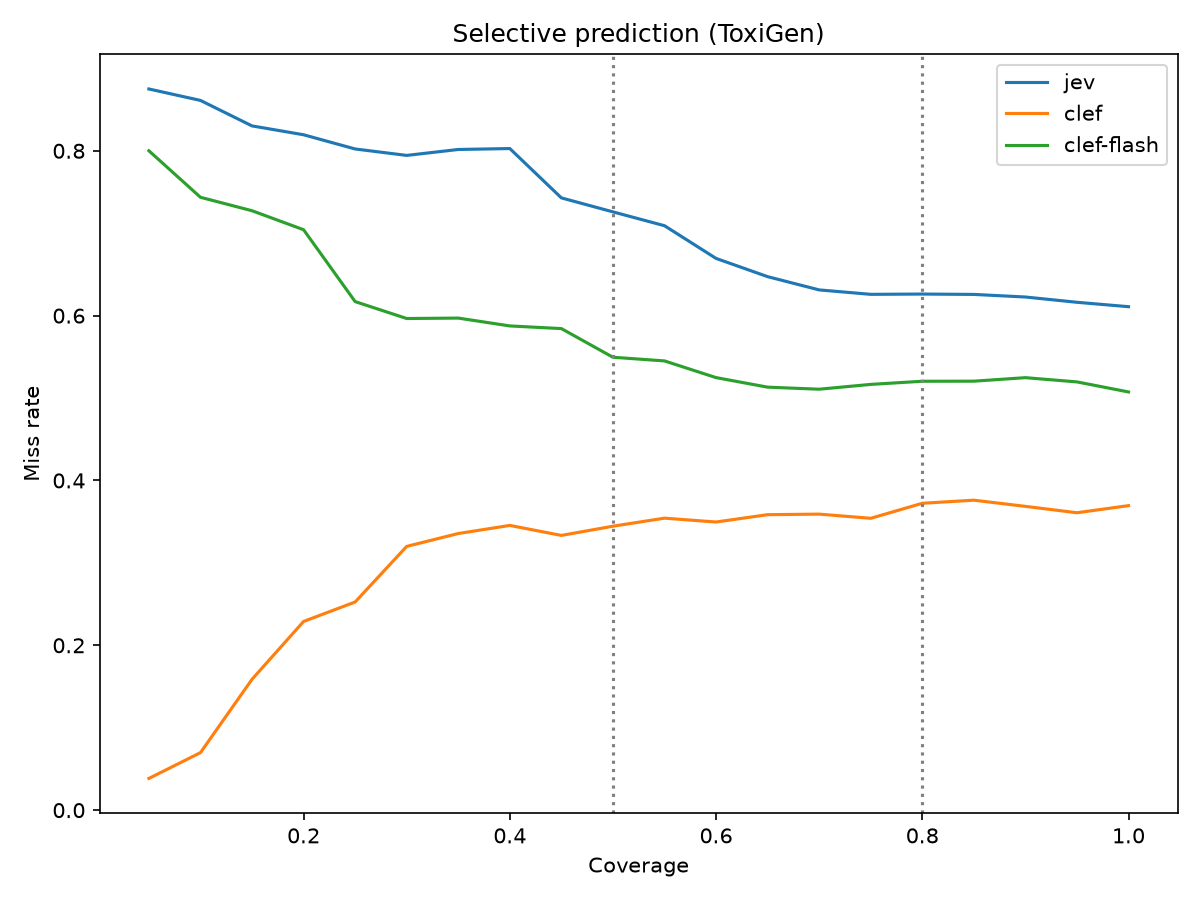
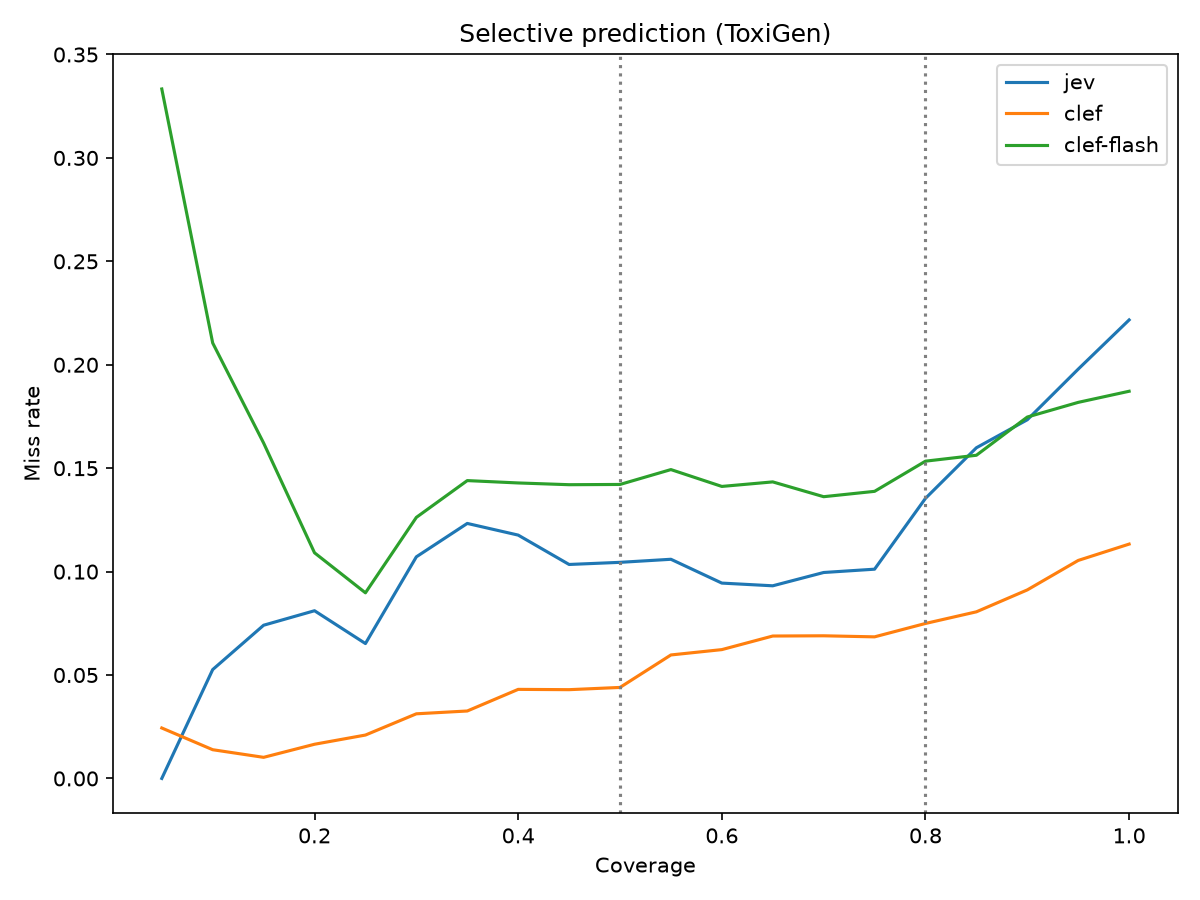
Fix run_metrics prediction alignment with gold records
run_metrics sorted predictions by example_id while core records stay in
loader order, so zipped pairs were misaligned and harness metrics at 0.5
were wrong. Align predictions to rows like run_score harness evaluation
and replace the Core pack table when regenerating metrics.

diff --git a/experiments/safety_decision_models_2026_10_19/scripts/run_metrics.py b/experiments/safety_decision_models_2026_10_19/scripts/run_metrics.py
@@ -105,7 +105,9 @@ def main() -> None:
     for arm in (*MODEL_ARMS, GUARDRAIL_ARM):
         preds_by_arm[arm] = {}
         for dataset in DATASET_ORDER:
-            preds_by_arm[arm][dataset] = load_predictions(arm, dataset)
+            preds_by_arm[arm][dataset] = align_predictions(
+                records_by_dataset[dataset], load_predictions(arm, dataset)
+            )
 
     study = json.loads(STUDY_CONFIG.read_text(encoding="utf-8"))
     metrics: dict[str, Any] = {
@@ -246,8 +248,23 @@ def load_predictions(arm: str, dataset: str) -> list[PredictionRecord]:
         if row.get("probability") is not None and isinstance(row["probability"], float) and math.isnan(row["probability"]):
             row["probability"] = None
         preds.append(PredictionRecord.model_validate(row))
-    preds.sort(key=lambda p: p.example_id)
     return preds
+
+
+def align_predictions(
+    rows: list[ExampleRecord], preds: list[PredictionRecord]
+) -> list[PredictionRecord]:
+    """Match harness scoring: one prediction per row in record loader order."""
+    by_id = {pred.example_id: pred for pred in preds}
+    missing = [row.example_id for row in rows if row.example_id not in by_id]
+    if missing:
+        raise ValueError(
+            f"missing predictions for {len(missing)} rows (first: {missing[0]})"
+        )
+    extra = len(preds) - len(by_id)
+    if extra:
+        raise ValueError(f"duplicate example_id in predictions ({extra} duplicates)")
+    return [by_id[row.example_id] for row in rows]
 
 
 def go_emotions_primary_metrics(
@@ -1217,7 +1234,7 @@ def append_results(metrics: dict[str, Any]) -> None:
     results_path = EXPERIMENT_ROOT / "RESULTS.md"
     text = results_path.read_text(encoding="utf-8")
     if "## Core pack" in text:
-        return
+        text = text[: text.index("## Core pack")].rstrip() + "\n"
     lines = [
         "",
         "## Core pack",

diff --git a/experiments/safety_decision_models_2026_10_19/RESULTS.md b/experiments/safety_decision_models_2026_10_19/RESULTS.md
@@ -25,59 +25,59 @@ Run `run_id=20261020T040920Z_90c5fd13` (step 7 metrics). Threshold 0.5 and devel
 
 | Dataset | Arm | Metric | Tuned | At 0.5 |
 | --- | --- | --- | ---: | ---: |
-| toxigen | jev | accuracy | 0.5394 | 0.5394 |
-| toxigen | clef | accuracy | 0.5000 | 0.5000 |
-| toxigen | clef-flash | accuracy | 0.5309 | 0.5309 |
-| toxigen | guardrails | miss_rate | 0.9026 | — |
-| openai_moderation | jev | mean_auprc | 0.0589 | 0.0573 |
-| openai_moderation | clef | mean_auprc | 0.0563 | 0.0560 |
-| openai_moderation | clef-flash | mean_auprc | 0.0602 | 0.0574 |
-| openai_moderation | guardrails | miss_rate | 0.8602 | — |
-| toxicchat | jev | toxic_f1 | 0.0872 | 0.0872 |
-| toxicchat | jev | jailbreak_f1 | 0.0000 | 0.0000 |
-| toxicchat | clef | toxic_f1 | 0.1230 | 0.1230 |
-| toxicchat | clef | jailbreak_f1 | 0.0143 | 0.0143 |
-| toxicchat | clef-flash | toxic_f1 | 0.1398 | 0.1398 |
-| toxicchat | clef-flash | jailbreak_f1 | 0.0362 | 0.0362 |
-| toxicchat | guardrails | miss_rate | 0.8785 | — |
-| prompt_injections | jev | accuracy | 0.5172 | 0.5172 |
-| prompt_injections | clef | accuracy | 0.5259 | 0.5259 |
-| prompt_injections | clef-flash | accuracy | 0.4741 | 0.4741 |
+| toxigen | jev | accuracy | 0.8755 | 0.8755 |
+| toxigen | clef | accuracy | 0.7213 | 0.7213 |
+| toxigen | clef-flash | accuracy | 0.8074 | 0.8074 |
+| toxigen | guardrails | miss_rate | 0.9060 | — |
+| openai_moderation | jev | mean_auprc | 0.7419 | 0.7324 |
+| openai_moderation | clef | mean_auprc | 0.7528 | 0.7501 |
+| openai_moderation | clef-flash | mean_auprc | 0.7099 | 0.7048 |
+| openai_moderation | guardrails | miss_rate | 0.9559 | — |
+| toxicchat | jev | toxic_f1 | 0.7878 | 0.7878 |
+| toxicchat | jev | jailbreak_f1 | 0.7004 | 0.7004 |
+| toxicchat | clef | toxic_f1 | 0.6566 | 0.6566 |
+| toxicchat | clef | jailbreak_f1 | 0.6071 | 0.6071 |
+| toxicchat | clef-flash | toxic_f1 | 0.5784 | 0.5784 |
+| toxicchat | clef-flash | jailbreak_f1 | 0.2900 | 0.2900 |
+| toxicchat | guardrails | miss_rate | 1.0000 | — |
+| prompt_injections | jev | accuracy | 0.7586 | 0.7586 |
+| prompt_injections | clef | accuracy | 0.7672 | 0.7672 |
+| prompt_injections | clef-flash | accuracy | 0.5948 | 0.5948 |
 | prompt_injections | guardrails | miss_rate | 1.0000 | — |
-| wildguardmix | jev | prompt_harm_f1 | 0.5855 | 0.5855 |
-| wildguardmix | jev | prompt_harm_auprc | 0.9855 | 0.9855 |
-| wildguardmix | clef | prompt_harm_f1 | 0.6359 | 0.6359 |
-| wildguardmix | clef | prompt_harm_auprc | 0.9864 | 0.9864 |
-| wildguardmix | clef-flash | prompt_harm_f1 | 0.5188 | 0.5188 |
-| wildguardmix | clef-flash | prompt_harm_auprc | 0.9848 | 0.9848 |
-| wildguardmix | guardrails | miss_rate | 0.9982 | — |
+| wildguardmix | jev | prompt_harm_f1 | 0.5904 | 0.5904 |
+| wildguardmix | jev | prompt_harm_auprc | 0.9881 | 0.9881 |
+| wildguardmix | clef | prompt_harm_f1 | 0.6351 | 0.6351 |
+| wildguardmix | clef | prompt_harm_auprc | 0.9875 | 0.9875 |
+| wildguardmix | clef-flash | prompt_harm_f1 | 0.5223 | 0.5223 |
+| wildguardmix | clef-flash | prompt_harm_auprc | 0.9881 | 0.9881 |
+| wildguardmix | guardrails | miss_rate | 1.0000 | — |
 | do_not_answer | jev | detection_rate | 0.7433 | 0.7433 |
 | do_not_answer | clef | detection_rate | 0.6017 | 0.6017 |
 | do_not_answer | clef-flash | detection_rate | 0.4462 | 0.4462 |
 | do_not_answer | guardrails | detection_rate | 0.0000 | — |
-| xstest | jev | false_positive_rate_safe | 0.0000 | 0.3920 |
-| xstest | jev | detection_rate_harmful | 0.0000 | 0.5400 |
-| xstest | clef | false_positive_rate_safe | 0.0000 | 0.4920 |
-| xstest | clef | detection_rate_harmful | 0.0000 | 0.6150 |
-| xstest | clef-flash | false_positive_rate_safe | 0.0000 | 0.3840 |
-| xstest | clef-flash | detection_rate_harmful | 0.0000 | 0.5400 |
-| xstest | guardrails | miss_rate | 0.9400 | — |
+| xstest | jev | false_positive_rate_safe | 0.0000 | 0.0840 |
+| xstest | jev | detection_rate_harmful | 0.0000 | 0.9250 |
+| xstest | clef | false_positive_rate_safe | 0.0000 | 0.2360 |
+| xstest | clef | detection_rate_harmful | 0.0000 | 0.9350 |
+| xstest | clef-flash | false_positive_rate_safe | 0.0000 | 0.1000 |
+| xstest | clef-flash | detection_rate_harmful | 0.0000 | 0.8950 |
+| xstest | guardrails | miss_rate | 1.0000 | — |
 | harmbench | jev | miss_rate | 0.2870 | 0.2870 |
 | harmbench | clef | miss_rate | 0.3937 | 0.3937 |
 | harmbench | clef-flash | miss_rate | 0.4688 | 0.4688 |
 | harmbench | guardrails | miss_rate | 1.0000 | — |
-| jailbreakbench | jev | miss_rate | 0.6600 | 0.6600 |
-| jailbreakbench | jev | false_positive_rate | 0.9700 | 0.9700 |
-| jailbreakbench | clef | miss_rate | 0.4600 | 0.4600 |
-| jailbreakbench | clef | false_positive_rate | 0.9900 | 0.9900 |
-| jailbreakbench | clef-flash | miss_rate | 0.7600 | 0.7600 |
-| jailbreakbench | clef-flash | false_positive_rate | 0.9300 | 0.9300 |
-| jailbreakbench | guardrails | miss_rate | 0.8100 | — |
-| go_emotions | jev | macro_f1 | 0.0557 | 0.0557 |
-| go_emotions | clef | macro_f1 | 0.0519 | 0.0519 |
-| go_emotions | clef-flash | macro_f1 | 0.0486 | 0.0486 |
+| jailbreakbench | jev | miss_rate | 0.0300 | 0.0300 |
+| jailbreakbench | jev | false_positive_rate | 0.3400 | 0.3400 |
+| jailbreakbench | clef | miss_rate | 0.0100 | 0.0100 |
+| jailbreakbench | clef | false_positive_rate | 0.5400 | 0.5400 |
+| jailbreakbench | clef-flash | miss_rate | 0.0700 | 0.0700 |
+| jailbreakbench | clef-flash | false_positive_rate | 0.2400 | 0.2400 |
+| jailbreakbench | guardrails | miss_rate | 1.0000 | — |
+| go_emotions | jev | macro_f1 | 0.2436 | 0.2436 |
+| go_emotions | clef | macro_f1 | 0.4618 | 0.4618 |
+| go_emotions | clef-flash | macro_f1 | 0.4814 | 0.4814 |
 | go_emotions | guardrails | miss_rate | 0.9178 | — |
-| emotion | jev | accuracy | 0.2450 | 0.2450 |
-| emotion | clef | accuracy | 0.2490 | 0.2490 |
-| emotion | clef-flash | accuracy | 0.2445 | 0.2445 |
+| emotion | jev | accuracy | 0.5840 | 0.5840 |
+| emotion | clef | accuracy | 0.5910 | 0.5910 |
+| emotion | clef-flash | accuracy | 0.5795 | 0.5795 |
 | emotion | guardrails | miss_rate | 0.9700 | — |
